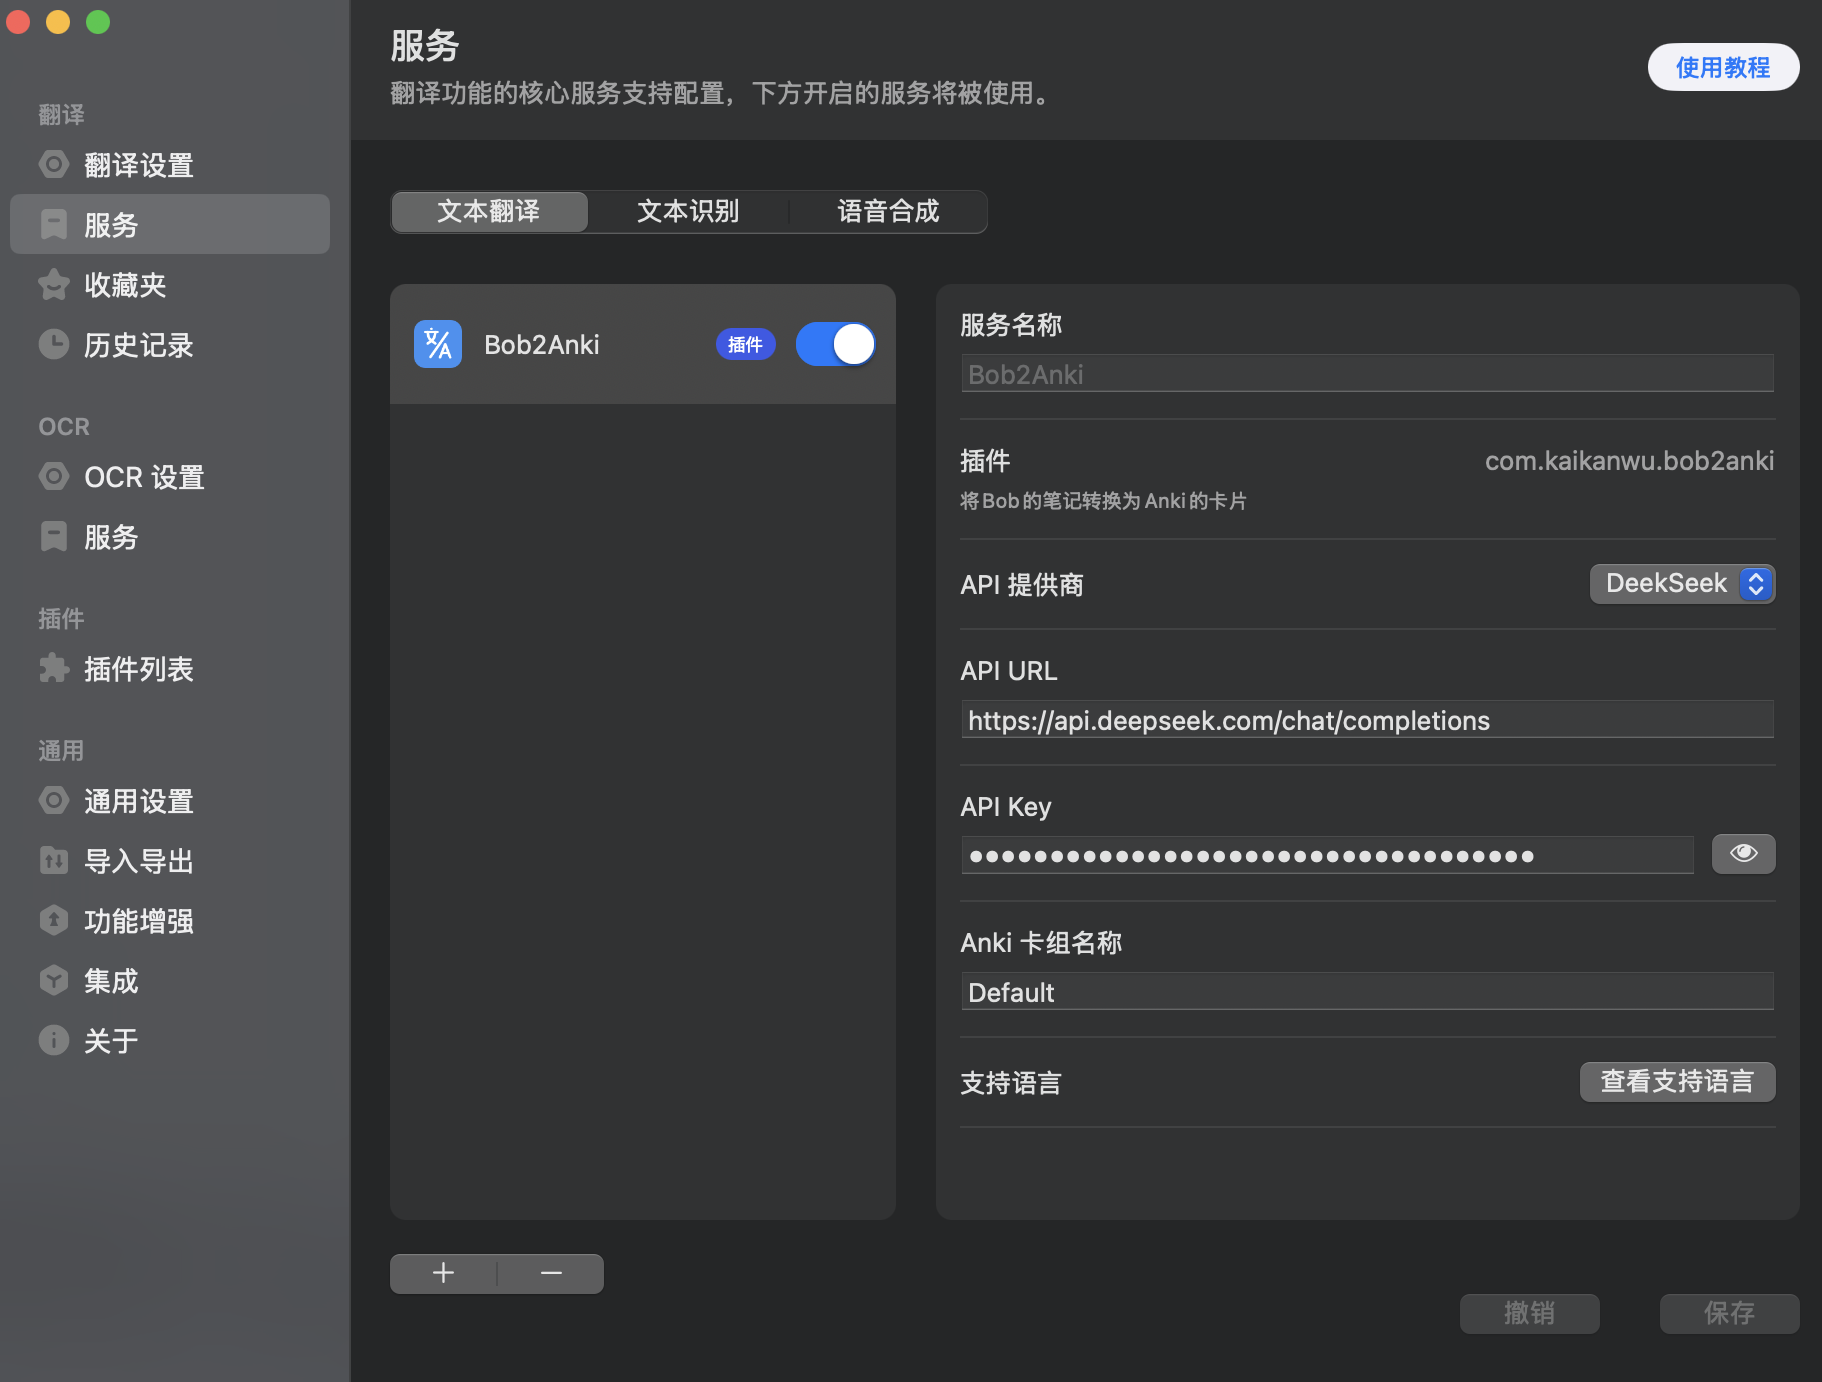
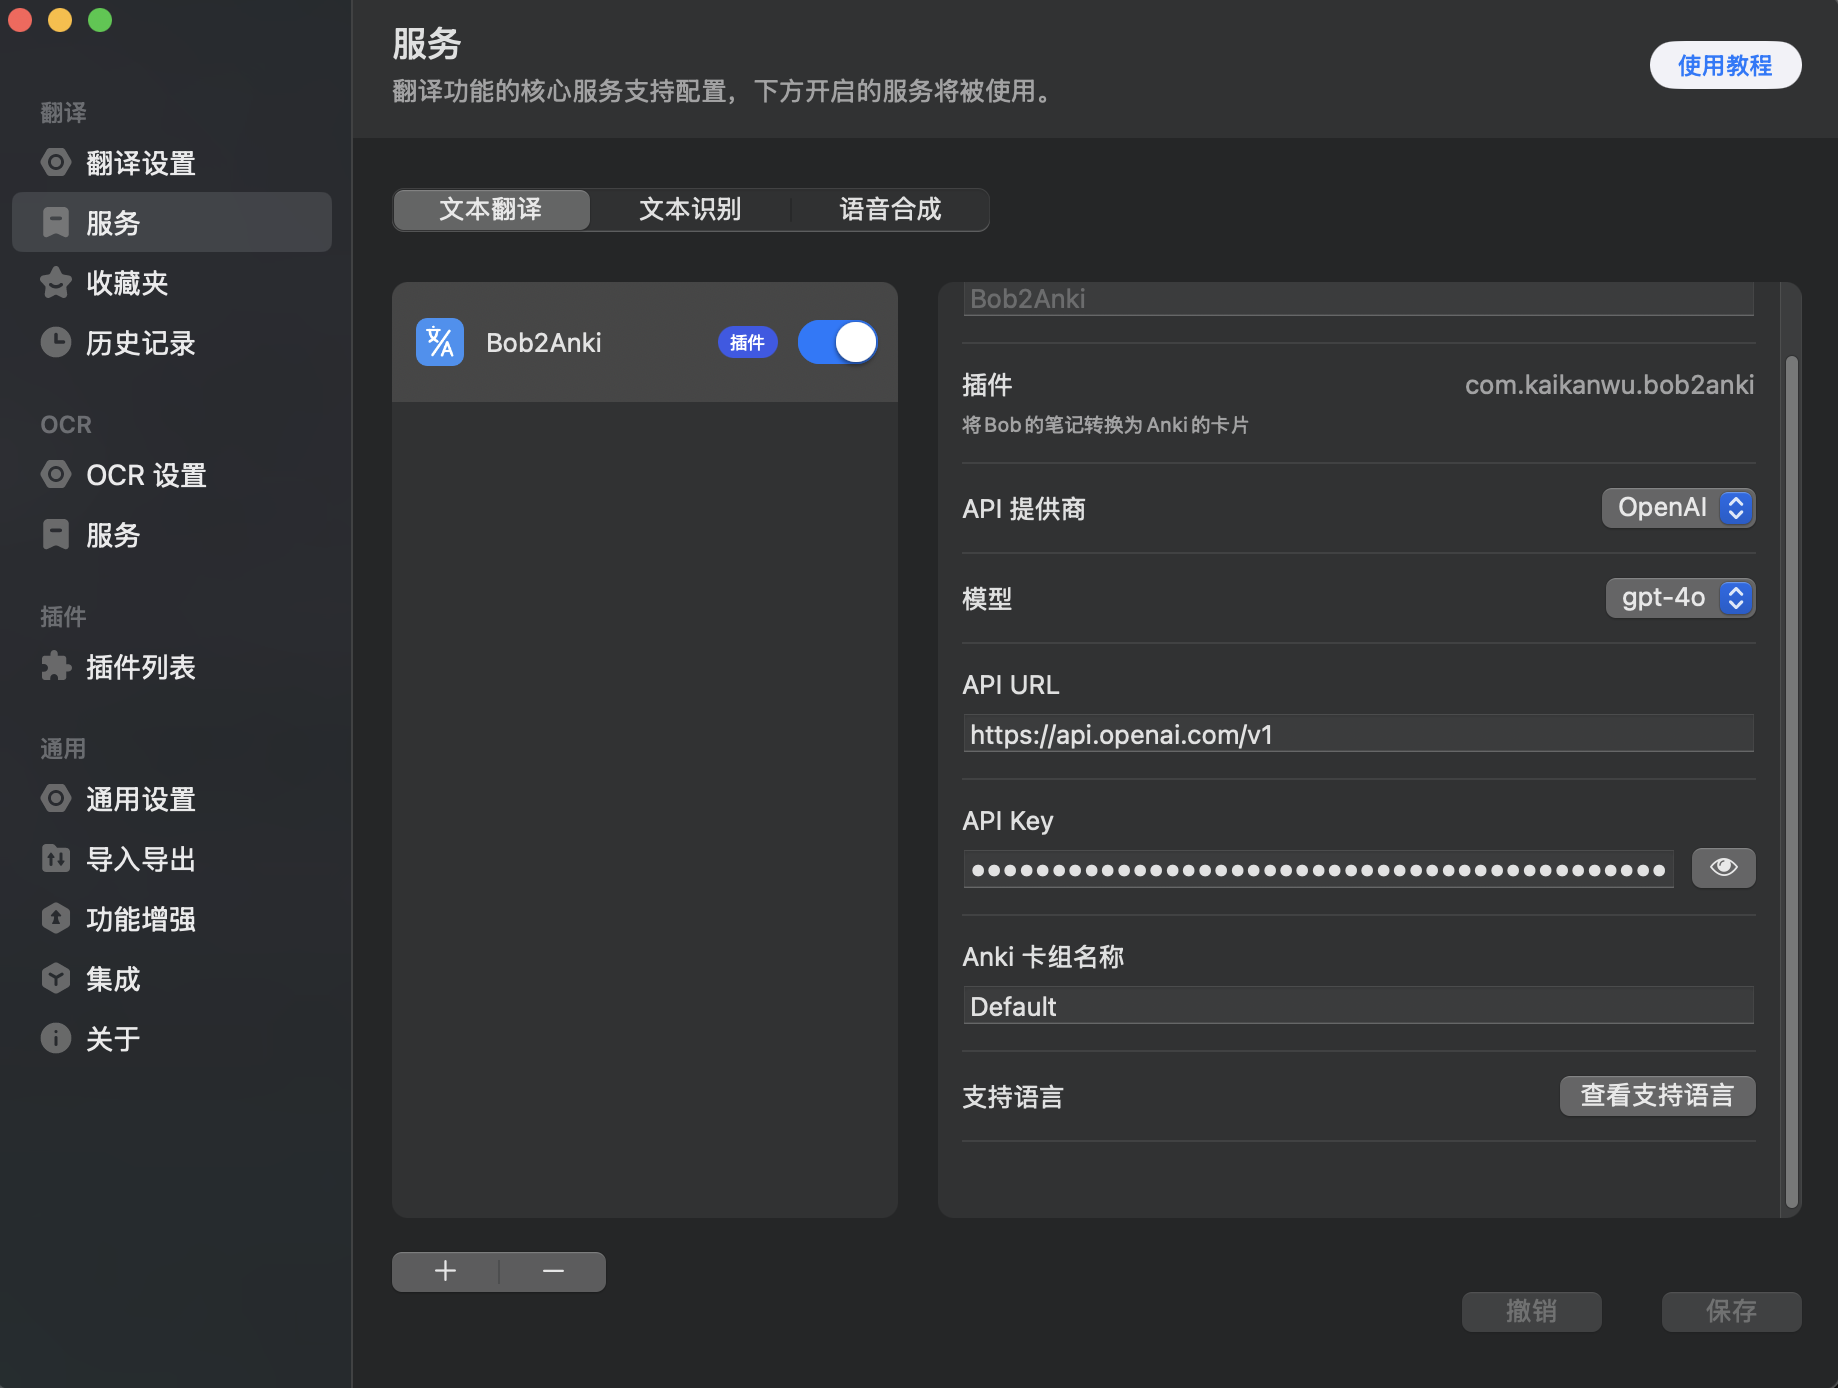
doc: update OpenAI's config

diff --git a/src/main.js b/src/main.js
@@ -18,8 +18,7 @@ var items = [
     ['auto', 'zh-Hans'],
     ['en', 'zh-Hans'],
     ['zh-Hans', 'en'],
-    ['zh-Hant', 'en'],
-    ['en', 'zh-Hans'],
+    ['zh-Hant', 'en']
 ];
 
 var langMap = new Map(items);

diff --git a/README.md b/README.md
@@ -1,19 +1,19 @@
 ## Features
 Testing:
 - Basic translation.
+- Pronunciation.
 - Add to anki, and specify the deck name.
-- Support DeekSeek API.
+- Support OpenAI API.
 
 Not yet:
-- Support Other Platforms like OpenAI.
-- Pronounce.
+- Support more AI providers.
 - Example sentence.
 - Key words explanation.
 - Stream response.
 
 ## How to use
 1. Install [Anki Connect](https://git.foosoft.net/alex/anki-connect), and keep Anki running.
-2. Apply [DeepSeek API key](https://platform.deepseek.com)
+2. Apply your OpenAI API key.
 3. [Install](https://bobtranslate.com/guide/advance/plugin.html) this plugin on Bob, and fill the config.
 
 ![Example](assets/example.png)
